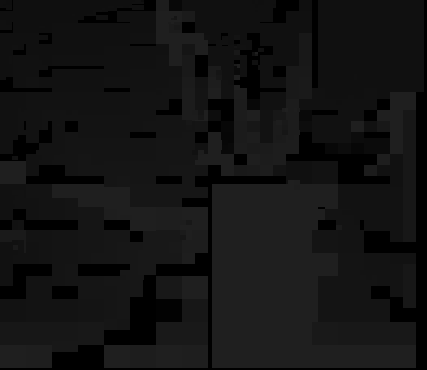
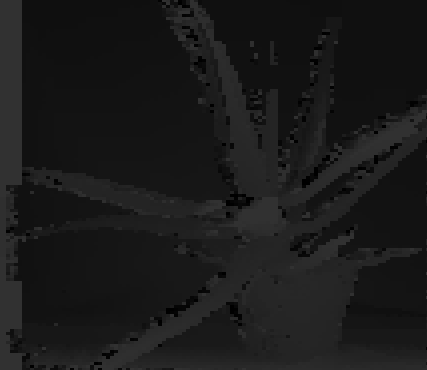
Algorithm fixes and image resizing (now imagine is showing as intended)

diff --git a/OpenCVTest/GeneticAlgorithm.cpp b/OpenCVTest/GeneticAlgorithm.cpp
@@ -17,6 +17,19 @@ void GeneticAlgorithm::copySubTree(const LinearQuadtree& source, LinearQuadtree&
 	}
 }
 
+void GeneticAlgorithm::clearSubTree(LinearQuadtree& dest, int depth, int x, int y)
+{
+	int k = dest.getIndex(depth, x, y);
+	int gene = dest.getGene(k);
+	if (gene == -1 && depth < dest.getMaxDepth()) {
+		clearSubTree(dest, depth + 1, x * 2, y * 2);
+		clearSubTree(dest, depth + 1, x * 2 + 1, y * 2);
+		clearSubTree(dest, depth + 1, x * 2, y * 2 + 1);
+		clearSubTree(dest, depth + 1, x * 2 + 1, y * 2 + 1);
+	}
+	dest.setGene(k, -1); 
+}
+
 GeneticAlgorithm::GeneticAlgorithm(int populationSize, int mutationRate, int maxDisparity)
 	: popSize(populationSize), mutRate(mutationRate), d_max(maxDisparity) {
 }
@@ -45,6 +58,15 @@ void GeneticAlgorithm::findSeedNodes(const LinearQuadtree& p1, const LinearQuadt
 		return;
 	}
 
+	if (isLeaf1 && !isLeaf2) {
+		seeds.push_back({ d, x, y });
+		return;
+	}
+	if (!isLeaf1 && isLeaf2) {
+		seeds.push_back({ d, x, y });
+		return;
+	}
+
 	if (!isLeaf1 && !isLeaf2 && d < p1.getMaxDepth()) {
 		findSeedNodes(p1, p2, d + 1, x * 2, y * 2, seeds);
 		findSeedNodes(p1, p2, d + 1, x * 2 + 1, y * 2, seeds);
@@ -58,7 +80,17 @@ LinearQuadtree GeneticAlgorithm::graftCrossover(const LinearQuadtree& p1, const 
 	std::vector<NodeInfo> seeds;
 	findSeedNodes(p1, p2, 0, 0, 0, seeds);
 
-	if (seeds.empty()) return p1;
+	if (seeds.empty()) {
+		static int emptyCross = 0;
+		static int totalCross = 0;
+		totalCross++;
+		emptyCross++;
+		if (totalCross % 1000 == 0)
+			std::cout << "Empty crossover: " << emptyCross << "/" << totalCross << std::endl;
+		return p1;
+	}
+	static int totalCross = 0;
+	totalCross++;
 
 	int randomIndex = rand() % seeds.size();
 	NodeInfo seed = seeds[randomIndex];
@@ -68,9 +100,8 @@ LinearQuadtree GeneticAlgorithm::graftCrossover(const LinearQuadtree& p1, const 
 	int coverY = seed.y / 2;
 
 	LinearQuadtree child = p1;
+	clearSubTree(child, coverDepth, coverX, coverY);
 	copySubTree(p2, child, coverDepth, coverX, coverY);
-
-	child.simplify(0, 0, 0);
 
 	child.makeDirty();
 
@@ -114,7 +145,6 @@ void GeneticAlgorithm::mutate(LinearQuadtree& qt, StereoMatcher& matcher)
 			mutateMerging(qt, k, matcher, currentEnergy);
 		}
 	}
-	qt.simplify(0, 0, 0);
 }
 
 void GeneticAlgorithm::mutateAlteration(LinearQuadtree& qt, NodeLocation k, StereoMatcher& matcher, float& oldEnergy)
@@ -177,7 +207,6 @@ void GeneticAlgorithm::mutateSplitting(LinearQuadtree& qt, NodeLocation k, Stere
 
 	int originalDisp = qt.getGene(k.k);
 	if (originalDisp == -1) return;
-
 	float localEnergyBefore = matcher.calculateFitness(qt, k);
 
 	qt.setGene(k.k, -1);
@@ -275,7 +304,6 @@ void GeneticAlgorithm::evolve(StereoMatcher& matcher) {
 		float maxEnergy = -FLT_MAX;
 		float totalEnergy = 0;
 		int bestIdx = 0;
-
 		for (int i = 0; i < popSize; i++) {
 			float f = (float)population[i].getFitness();
 			totalEnergy += f;
@@ -300,7 +328,10 @@ void GeneticAlgorithm::evolve(StereoMatcher& matcher) {
 
 		while (nextGen.size() < (size_t)popSize) {
 			int p1 = rand() % popSize;
-			int p2 = rand() % popSize;
+			int p2;
+			do {
+				p2 = rand() % popSize;
+			} while (p2 == p1);
 
 			LinearQuadtree child1 = graftCrossover(population[p1], population[p2]);
 			mutate(child1, matcher);
@@ -332,7 +363,12 @@ void GeneticAlgorithm::evolve(StereoMatcher& matcher) {
 
 		auto t_end = std::chrono::high_resolution_clock::now();
 		double duration = std::chrono::duration<double, std::milli>(t_end - t_start).count();
-
+		int identical = 0;
+		for (int i = 1; i < popSize; i++) {
+			if (population[i].getD() == population[bestIdx].getD()) {
+				identical++;
+			}
+		}
 		std::cout << "Generation " << gen
 			<< " | Best: " << minEnergy
 			<< " | Avg: " << avgEnergy

diff --git a/OpenCVTest/Evaluation.cpp b/OpenCVTest/Evaluation.cpp
@@ -54,4 +54,49 @@ namespace Evaluation {
 
         return G_I;
     }
+    EvaluationResult evaluateWithGroundTruth(const cv::Mat& disparityMap, const cv::Mat& groundTruth) {
+        EvaluationResult result;
+        cv::Mat gtGray;
+        if (groundTruth.channels() == 3)
+            cv::cvtColor(groundTruth, gtGray, cv::COLOR_BGR2GRAY);
+        else
+            gtGray = groundTruth.clone();
+
+        cv::Mat dispGray;
+        if (disparityMap.channels() == 3)
+            cv::cvtColor(disparityMap, dispGray, cv::COLOR_BGR2GRAY);
+        else
+            dispGray = disparityMap.clone();
+
+        CV_Assert(gtGray.size() == dispGray.size());
+
+        int correct = 0;
+        int correctWithin1 = 0;
+        int total = 0;
+
+        for (int y = 0; y < gtGray.rows; y++) {
+            for (int x = 0; x < gtGray.cols; x++) {
+                int gtRaw = gtGray.at<uchar>(y, x);
+                if (gtRaw == 0) continue;
+
+                float gtDisp = gtRaw / 4.0f;
+                int yourDisp = dispGray.at<uchar>(y, x);
+
+                total++;
+                float diff = std::abs(gtDisp - yourDisp);
+                if (diff < 0.5f) correct++;
+                if (diff <= 1.0f) correctWithin1++;
+            }
+        }
+
+        result.correctPercentage = (float)correct / total * 100.0f;
+        result.correctWithin1Percentage = (float)correctWithin1 / total * 100.0f;
+        result.totalPixels = total;
+
+        std::cout << "Total pixels evaluated: " << total << std::endl;
+        std::cout << "Correct disparities: " << result.correctPercentage << "%" << std::endl;
+        std::cout << "Correct within +-1: " << result.correctWithin1Percentage << "%" << std::endl;
+
+        return result;
+    }
 }

diff --git a/OpenCVTest/StereoMatcher.cpp b/OpenCVTest/StereoMatcher.cpp
@@ -6,50 +6,51 @@ StereoMatcher::StereoMatcher(int maxDisparity) : d_max(maxDisparity)
         edgeLengths.push_back((float)Config::HEIGHT / (1 << d));
 	}
 	for (int d = 0; d < 20; d++) {
-		penaltyTableVert[d] = (float)Config::SMOOTHNESS_LAMBDA * (Config::HEIGHT / (float)(1 << d));
-		penaltyTableHoriz[d] = (float)Config::SMOOTHNESS_LAMBDA * (Config::WIDTH / (float)(1 << d));
+		penaltyTableVert[d] = (Config::HEIGHT / (float)(1 << d));
+		penaltyTableHoriz[d] = (Config::WIDTH / (float)(1 << d));
 	}
 }
 
 void StereoMatcher::populateSpace(const cv::Mat& ImgL, const cv::Mat& ImgR)
 {
-    costVolume.clear();
-    costVolume.resize(d_max);
-    integralCosts.clear();
-    integralCosts.resize(d_max);
+    int minDisp = Config::MIN_DISPARITY;
+    int maxDisp = Config::MAX_DISPARITY;
+    int numDisp = maxDisp - minDisp;
 
+    costVolume.clear();
+    costVolume.resize(numDisp);
+    integralCosts.clear();
+    integralCosts.resize(numDisp);
     int w = Config::WINDOW_RADIUS;
 
-    for (int d = 0; d < d_max; d++) {
-		cv::Mat cost = cv::Mat::zeros(ImgR.size(), CV_32F); 
+    for (int d = minDisp; d < maxDisp; d++) {
+        int idx = d - minDisp;
+        cv::Mat cost = cv::Mat::zeros(ImgR.size(), CV_32F);
 
-        for(int y = w; y < ImgR.rows - w; y++) {
-            for(int x = w; x < ImgR.cols - w; x++) {
-                if (x + d + w < ImgL.cols) {
+        for (int y = w; y < ImgL.rows - w; y++) {
+            for (int x = w + d; x < ImgL.cols - w; x++) {
+                if (x - d - w >= 0) {
                     float windowSum = 0.0f;
-                    
+
                     for (int i = -w; i <= w; i++) {
                         const uchar* pL = ImgL.ptr<uchar>(y + i);
                         const uchar* pR = ImgR.ptr<uchar>(y + i);
-                        
+
                         for (int j = -w; j <= w; j++) {
-                            windowSum += std::abs((float)pL[x + j + d] - (float)pR[x + j]);
+                            windowSum += std::abs((float)pL[x + j] - (float)pR[x + j - d]);
                         }
                     }
-					cost.at<float>(y, x) = windowSum / 9.0f;
+                    cost.at<float>(y, x) = windowSum;
                 }
             }
-		}
+        }
 
-        costVolume[d] = cost;
-
+        costVolume[idx] = cost;
         cv::Mat integralFloat;
         cv::integral(cost, integralFloat, CV_32F);
-
         cv::Mat integral;
         integralFloat.convertTo(integral, CV_32S);
-
-        integralCosts[d] = integral;
+        integralCosts[idx] = integral;
     }
 }
 

diff --git a/OpenCVTest/Main.cpp b/OpenCVTest/Main.cpp
@@ -10,7 +10,7 @@
 #include "Evaluation.h"
 
 int main() {
-    srand((unsigned int)time(NULL));
+    srand(time(nullptr));
 
     cv::Mat imgL = cv::imread("view1.png", cv::IMREAD_GRAYSCALE);
     cv::Mat imgR = cv::imread("view5.png", cv::IMREAD_GRAYSCALE);
@@ -19,9 +19,27 @@ int main() {
         return -1;
     }
 
+    int imgOriginalW = imgL.cols;
+    int imgOriginalH = imgL.rows;
+
+    int validW = ((imgL.cols + 127) / 128) * 128;
+    int validH = ((imgL.rows + 127) / 128) * 128;
+
+    int totalPadW = validW - imgOriginalW;
+    int totalPadH = validH - imgOriginalH;
+
+    int padLeft = totalPadW / 2;
+    int padRight = totalPadW - padLeft;
+    int padTop = totalPadH / 2;
+    int padBottom = totalPadH - padTop;
+
+    cv::copyMakeBorder(imgL, imgL, padTop, padBottom, padLeft, padRight, cv::BORDER_REFLECT);
+    cv::copyMakeBorder(imgR, imgR, padTop, padBottom, padLeft, padRight, cv::BORDER_REFLECT);
+
+    Config::WIDTH = validW;
+    Config::HEIGHT = validH;
+
     cv::Size quadSize(Config::WIDTH, Config::HEIGHT);
-    cv::resize(imgL, imgL, quadSize);
-    cv::resize(imgR, imgR, quadSize);
 
     StereoMatcher matcher(Config::MAX_DISPARITY);
     matcher.populateSpace(imgL, imgR);
@@ -35,6 +53,21 @@ int main() {
 
     cv::Mat grayResult = cv::Mat::zeros(quadSize, CV_8UC1);
     best.drawDisparity(grayResult, 0, 0, 0);
+
+    grayResult = grayResult(cv::Rect(padLeft, padTop, imgOriginalW, imgOriginalH)).clone();
+
+    imgL = imgL(cv::Rect(padLeft, padTop, imgOriginalW, imgOriginalH)).clone();
+
+    cv::Mat gt = cv::imread("disp1.png", cv::IMREAD_GRAYSCALE);
+    gt = gt(cv::Rect(0, 0, imgOriginalW, imgOriginalH)).clone();
+
+    auto results = Evaluation::evaluateWithGroundTruth(grayResult, gt);
+
+    int zeroCount = cv::countNonZero(grayResult == 0);
+    std::cout << "Zero pixels: " << zeroCount << "/" << (quadSize.width * quadSize.height) << std::endl;
+    std::cout << "Config: " << Config::WIDTH << "x" << Config::HEIGHT << std::endl;
+    std::cout << "Image size: " << imgL.cols << "x" << imgL.rows << std::endl;
+    std::cout << "Canvas size: " << grayResult.cols << "x" << grayResult.rows << std::endl;
 
     double gScore = Evaluation::evaluateDisparityMap_G(grayResult, matcher.getCostVolume());
     std::cout << "\nFinal G(I) Quality Measure: " << gScore << std::endl;

diff --git a/OpenCVTest/LinearQuadtree.cpp b/OpenCVTest/LinearQuadtree.cpp
@@ -44,11 +44,11 @@ void LinearQuadtree::buildRandom(int depth, int x, int y, StereoMatcher& matcher
 	else
 	{
 		cv::Rect region = getRect(depth, x, y);
-		int bestDisparity = 0;
+		int bestDisparity = Config::MIN_DISPARITY;
 		float minCost = FLT_MAX;
-
-		for (int d = 0; d < Config::MAX_DISPARITY; d++) {
-			cv::Scalar sumCost = cv::sum(matcher.getCostVolume()[d](region));
+		for (int d = Config::MIN_DISPARITY; d < Config::MAX_DISPARITY; d++) {
+			int idx = d - Config::MIN_DISPARITY;
+			cv::Scalar sumCost = cv::sum(matcher.getCostVolume()[idx](region));
 			if (sumCost[0] < minCost) {
 				minCost = sumCost[0];
 				bestDisparity = d;
@@ -56,7 +56,6 @@ void LinearQuadtree::buildRandom(int depth, int x, int y, StereoMatcher& matcher
 		}
 		D[k] = bestDisparity;
 	}
-
 	if (depth == 0) {
 		simplify(0, 0, 0);
 	}

diff --git a/OpenCVTest/Common.h b/OpenCVTest/Common.h
@@ -1,9 +1,11 @@
 #pragma once
 
     namespace Config {
-        const int WIDTH = 427;
-        const int HEIGHT = 370;
-        const int MAX_DISPARITY = 32;
+        extern int WIDTH;
+        extern int HEIGHT;
+
+        const int MAX_DISPARITY = 50;
+		const int MIN_DISPARITY = 0;
         const int MAX_DEPTH = 7;
         const int POP_SIZE = 40;
 	    const int GENERATIONS = 800;

diff --git a/OpenCVTest/Evaluation.h b/OpenCVTest/Evaluation.h
@@ -4,6 +4,13 @@
 #include <vector>
 
 namespace Evaluation {
+    struct EvaluationResult {
+        float correctPercentage = 0.0f;
+        float correctWithin1Percentage = 0.0f;
+        int totalPixels = 0;
+    };
+
     double evaluateDisparityMap_G(const cv::Mat& disparityMap, const std::vector<cv::Mat>& costVolume);
+    EvaluationResult evaluateWithGroundTruth(const cv::Mat& disparityMap, const cv::Mat& groundTruth);
 }
 #endif

diff --git a/OpenCVTest/Common.cpp b/OpenCVTest/Common.cpp
@@ -1,0 +1,6 @@
+#include "Common.h"
+
+namespace Config {
+    int WIDTH = 384;
+    int HEIGHT = 256;
+}

diff --git a/OpenCVTest/GeneticAlgorithm.h b/OpenCVTest/GeneticAlgorithm.h
@@ -17,6 +17,8 @@ private:
 
 	void copySubTree(const LinearQuadtree& source, LinearQuadtree& dest, int depth, int x, int y);
 
+	void clearSubTree(LinearQuadtree& dest, int depth, int x, int y);
+
 public:
 	GeneticAlgorithm(int populationSize, int mutationRate, int maxDisparity);
 	void initialize(StereoMatcher& matcher, int baseSize);